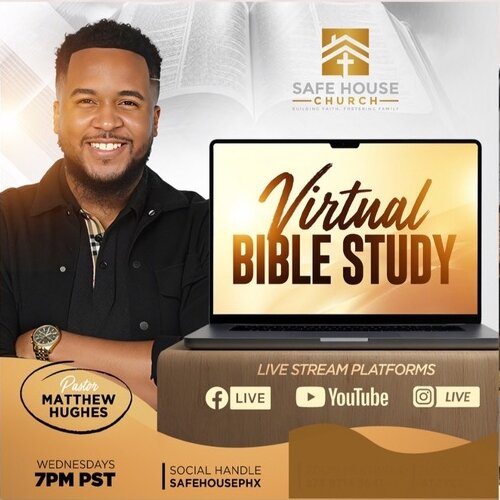
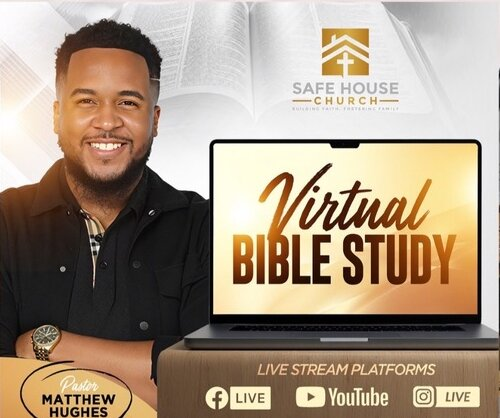
Bible study time 6:30 PM; trim old time from flyer
Claude-Session: https://claude.ai/code/session_011rVAk2LqoU6mk2TE1rcw4S

diff --git a/index.html b/index.html
@@ -460,14 +460,14 @@
 <!-- ====== VIRTUAL BIBLE STUDY ====== -->
 <section class="sec vbs-sec" id="bible-study">
   <div class="vbs-grid">
-    <img class="vbs-flyer" src="images/virtual-bible-study.jpg" alt="Virtual Bible Study with Pastor Matthew Hughes, Wednesdays at 7 PM" loading="lazy">
+    <img class="vbs-flyer" src="images/virtual-bible-study.jpg" alt="Virtual Bible Study with Pastor Matthew Hughes, Wednesdays at 6:30 PM" loading="lazy">
     <div>
       <div class="eyebrow">Midweek</div>
       <h2 class="sec-title">Virtual Bible Study</h2>
       <p class="sec-sub" style="margin-bottom:28px">Join Pastor Matthew Hughes every Wednesday night as we open the Word together. Wherever you are, you can grow with us. Watch live and bring your questions.</p>
       <div class="vbs-when">
         <div class="svc-item"><span class="svc-label">Every</span><span class="svc-val">Wednesday</span></div>
-        <div class="svc-item"><span class="svc-label">Time</span><span class="svc-val">7:00 PM PST</span></div>
+        <div class="svc-item"><span class="svc-label">Time</span><span class="svc-val">6:30 PM MST</span></div>
         <div class="svc-item"><span class="svc-label">Find Us</span><span class="svc-val">@SafeHousePHX</span></div>
       </div>
       <div class="vbs-platforms">
